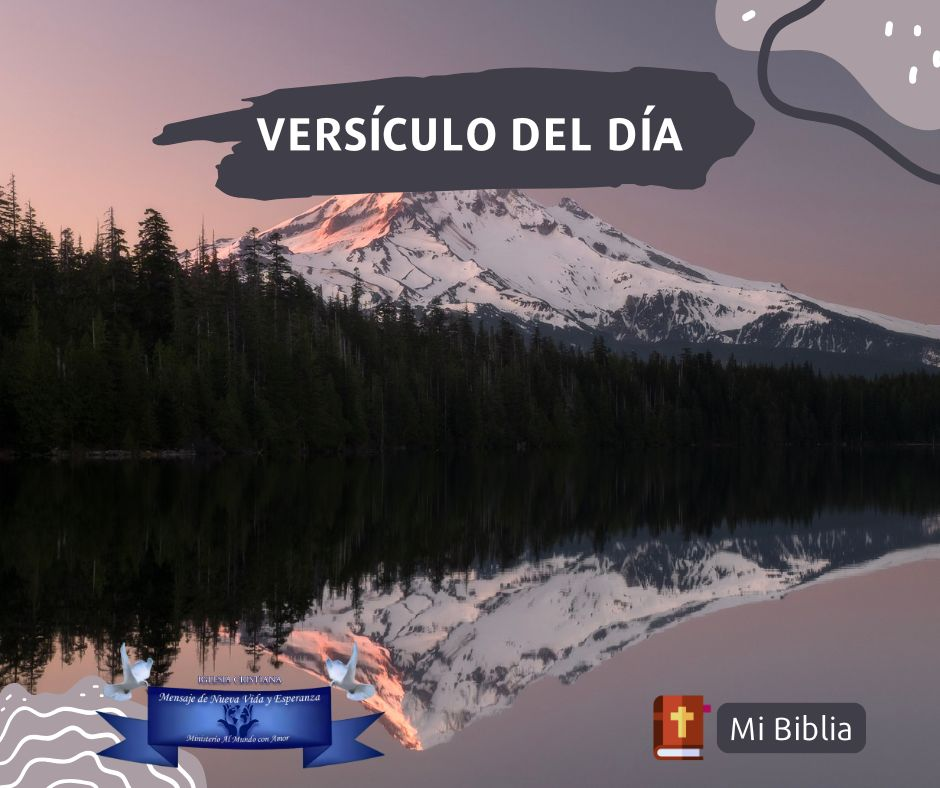
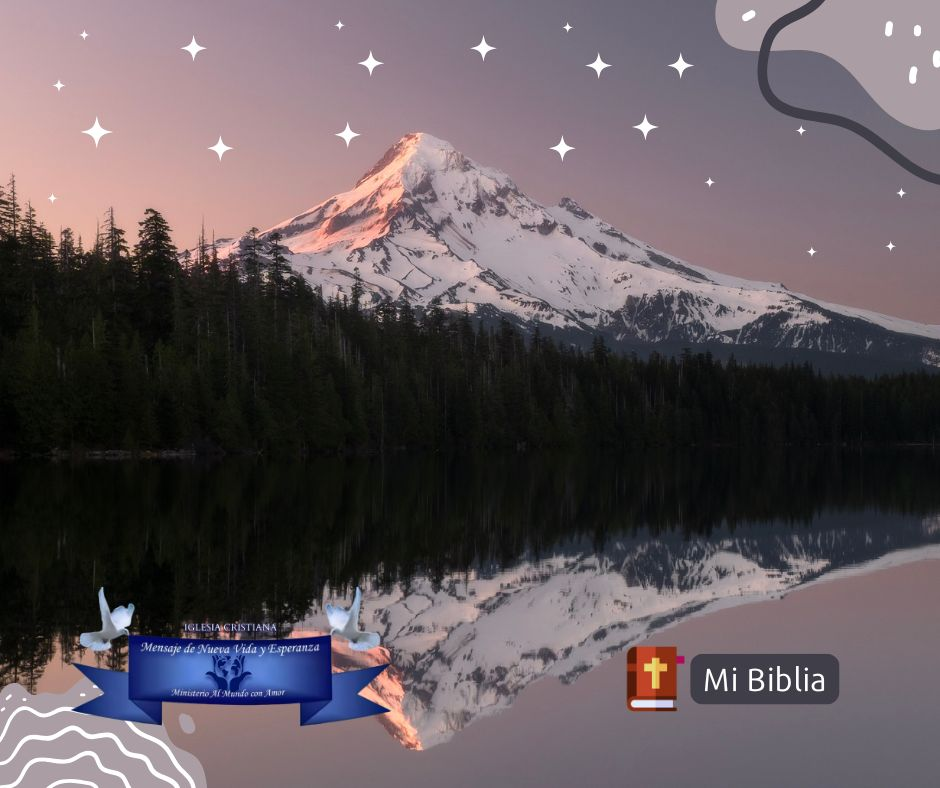
versiculo del dia

diff --git a/js/biblia.js b/js/biblia.js
@@ -22,6 +22,78 @@ let touchMoved = false;
 
 const esMovil = /Android|webOS|iPhone|iPad|iPod|BlackBerry|IEMobile|Opera Mini/i.test(navigator.userAgent);
 
+// Lista predefinida de versículos destacados para el versículo del día
+const versiculosDestacados = [
+  { libro: "Juan", capitulo: 3, versiculo: 16, texto: "Porque de tal manera amó Dios al mundo, que ha dado a su Hijo unigénito, para que todo aquel que en él cree, no se pierda, mas tenga vida eterna." },
+  { libro: "Salmos", capitulo: 23, versiculo: 1, texto: "Jehová es mi pastor; nada me faltará." },
+  { libro: "Filipenses", capitulo: 4, versiculo: 13, texto: "Todo lo puedo en Cristo que me fortalece." },
+  { libro: "Proverbios", capitulo: 3, versiculo: 5, texto: "Fíate de Jehová de todo tu corazón, y no te apoyes en tu propia prudencia." },
+  { libro: "Mateo", capitulo: 11, versiculo: 28, texto: "Venid a mí todos los que estáis trabajados y cargados, y yo os haré descansar." }
+];
+
+// Obtener el versículo del día basado en la fecha actual
+function obtenerVersiculoDelDia() {
+  const hoy = new Date().toISOString().split('T')[0]; // Formato YYYY-MM-DD
+  const semilla = hoy.split('-').reduce((acc, num) => acc + parseInt(num), 0); // Suma los números de la fecha
+  const indice = semilla % versiculosDestacados.length; // Índice determinista basado en la fecha
+  return versiculosDestacados[indice];
+}
+
+// Mostrar la ventana del versículo del día si es la primera visita del día
+function mostrarVersiculoDelDia() {
+  const hoy = new Date().toISOString().split('T')[0];
+  const ultimaVisita = localStorage.getItem('lastVisitDate');
+
+  if (ultimaVisita !== hoy) {
+    const versiculo = obtenerVersiculoDelDia();
+    const ventana = document.createElement('div');
+    ventana.className = 'versiculo-dia';
+
+    // Dividir el texto en líneas para que se vea como en el diseño
+    const palabras = versiculo.texto.split(' ');
+    let linea1 = '', linea2 = '';
+    const mitad = Math.ceil(palabras.length / 2);
+    linea1 = palabras.slice(0, mitad).join(' ');
+    linea2 = palabras.slice(mitad).join(' ');
+
+    ventana.innerHTML = `
+      <div class="contenido">
+        <h3>Versículo del día</h3>
+        <p class="texto-versiculo">${linea1}<br>${linea2}</p>
+        <p class="referencia">${versiculo.libro} ${versiculo.capitulo}:${versiculo.versiculo}</p>
+        <div class="botones">
+          <button id="btn-compartir-dia">Compartir</button>
+          <button id="btn-copiar-dia">Copiar</button>
+          <button id="btn-cerrar-dia">Cerrar</button>
+        </div>
+      </div>
+    `;
+    document.body.appendChild(ventana);
+
+    // Funcionalidad de los botones
+    document.getElementById('btn-compartir-dia').addEventListener('click', () => {
+      compartirVersiculoComoImagen(versiculo.libro, versiculo.capitulo, versiculo.versiculo, versiculo.texto, true);
+      localStorage.setItem('lastVisitDate', hoy);
+      document.body.removeChild(ventana);
+    });
+
+    document.getElementById('btn-copiar-dia').addEventListener('click', () => {
+      const texto = `${versiculo.texto} (${versiculo.libro} ${versiculo.capitulo}:${versiculo.versiculo})`;
+      navigator.clipboard.writeText(texto).then(() => {
+        alert('Texto copiado al portapapeles');
+      }).catch(err => {
+        console.error('Error al copiar texto:', err);
+        alert('No se pudo copiar el texto');
+      });
+    });
+
+    document.getElementById('btn-cerrar-dia').addEventListener('click', () => {
+      localStorage.setItem('lastVisitDate', hoy);
+      document.body.removeChild(ventana);
+    });
+  }
+}
+
 function crearInputBusqueda() {
   const input = document.createElement("input");
   input.type = "text";
@@ -211,15 +283,15 @@ function mostrarCapitulo(index) {
   cargarResaltados();
 }
 
-async function generarImagenVersiculo(libro, capitulo, versiculoNumero, texto) {
+async function generarImagenVersiculo(libro, capitulo, versiculoNumero, texto, esVersiculoDelDia = false) {
   const canvas = document.createElement('canvas');
   canvas.width = 940;
   canvas.height = 788;
   const ctx = canvas.getContext('2d');
 
-  // Cargar fondo
+  // Cargar fondo según el contexto
   const fondo = new Image();
-  fondo.src = 'images/background-versiculo.jpg';
+  fondo.src = esVersiculoDelDia ? 'images/background-versiculo-dia.jpg' : 'images/background-versiculo.jpg';
   await new Promise(resolve => fondo.onload = resolve);
   ctx.drawImage(fondo, 0, 0, 940, 788);
 
@@ -285,9 +357,9 @@ async function generarImagenVersiculo(libro, capitulo, versiculoNumero, texto) {
   });
 }
 
-async function compartirVersiculoComoImagen(libro, capitulo, versiculoNumero, texto) {
+async function compartirVersiculoComoImagen(libro, capitulo, versiculoNumero, texto, esVersiculoDelDia = false) {
   try {
-    const blob = await generarImagenVersiculo(libro, capitulo, versiculoNumero, texto);
+    const blob = await generarImagenVersiculo(libro, capitulo, versiculoNumero, texto, esVersiculoDelDia);
     const file = new File([blob], `versiculo-${libro}-${capitulo}-${versiculoNumero}.png`, { type: 'image/png' });
 
     if (navigator.canShare && navigator.canShare({ files: [file] })) {
@@ -520,6 +592,11 @@ btnSiguiente.addEventListener("click", () => {
   mostrarCapitulo(0);
   dropdownToggle.textContent = "Libro";
 })();
+
+// Mostrar el versículo del día al cargar la página
+document.addEventListener('DOMContentLoaded', () => {
+  mostrarVersiculoDelDia();
+});
 
 if ('serviceWorker' in navigator) {
   window.addEventListener('load', () => {

diff --git a/css/styles.css b/css/styles.css
@@ -545,6 +545,89 @@ footer.footer2 {
   background-color: #45a049;
 }
 
+/* Estilos para la ventana del versículo del día */
+.versiculo-dia {
+  position: fixed;
+  top: 0;
+  left: 0;
+  width: 100%;
+  height: 100%;
+  background-color: rgba(0, 0, 0, 0.5);
+  display: flex;
+  justify-content: center;
+  align-items: center;
+  z-index: 1002;
+}
+
+.versiculo-dia .contenido {
+  background-color: white;
+  padding: 20px;
+  border-radius: 8px;
+  text-align: center;
+  max-width: 300px;
+  width: 90%;
+}
+
+.versiculo-dia h3 {
+  font-size: 1.3rem;
+  margin-bottom: 1rem;
+  color: #2c3e50;
+}
+
+.versiculo-dia .texto-versiculo {
+  font-size: 1.1rem;
+  margin-bottom: 0.5rem;
+  color: #333;
+}
+
+.versiculo-dia .referencia {
+  font-size: 1rem;
+  font-style: italic;
+  color: #7f8c8d;
+  margin-bottom: 1rem;
+}
+
+.versiculo-dia .botones {
+  display: flex;
+  justify-content: center;
+  gap: 0.5rem;
+}
+
+.versiculo-dia button {
+  padding: 0.5rem 1rem;
+  border: none;
+  border-radius: 4px;
+  cursor: pointer;
+  font-size: 0.9rem;
+}
+
+#btn-compartir-dia {
+  background-color: #2196F3;
+  color: white;
+}
+
+#btn-copiar-dia {
+  background-color: #4CAF50;
+  color: white;
+}
+
+#btn-cerrar-dia {
+  background-color: #ff4444;
+  color: white;
+}
+
+#btn-compartir-dia:hover {
+  background-color: #1976D2;
+}
+
+#btn-copiar-dia:hover {
+  background-color: #388E3C;
+}
+
+#btn-cerrar-dia:hover {
+  background-color: #cc0000;
+}
+
 /* Media queries para móvil */
 @media (max-width: 768px) {
   .menu-toggle {

diff --git a/service-worker.js b/service-worker.js
@@ -1,4 +1,4 @@
-const CACHE_NAME = 'biblia-digital-v2'; // Cambiamos el nombre para forzar una nueva instalación
+const CACHE_NAME = 'biblia-digital-v5'; // Cambiamos el nombre para forzar una nueva instalación
 const urlsToCache = [
   '/',
   '/biblia.digital/index.html',
@@ -9,6 +9,7 @@ const urlsToCache = [
   '/biblia.digital/js/appLink.js',
   '/biblia.digital/js/libros.js',
   '/biblia.digital/images/background-versiculo.jpg',
+  '/biblia.digital/images/background-versiculo-dia.jpg',
   '/biblia.digital/icons/icon-192x192.png',
   '/biblia.digital/icons/icon-512x512.png',
   '/biblia.digital/manifest.json',
